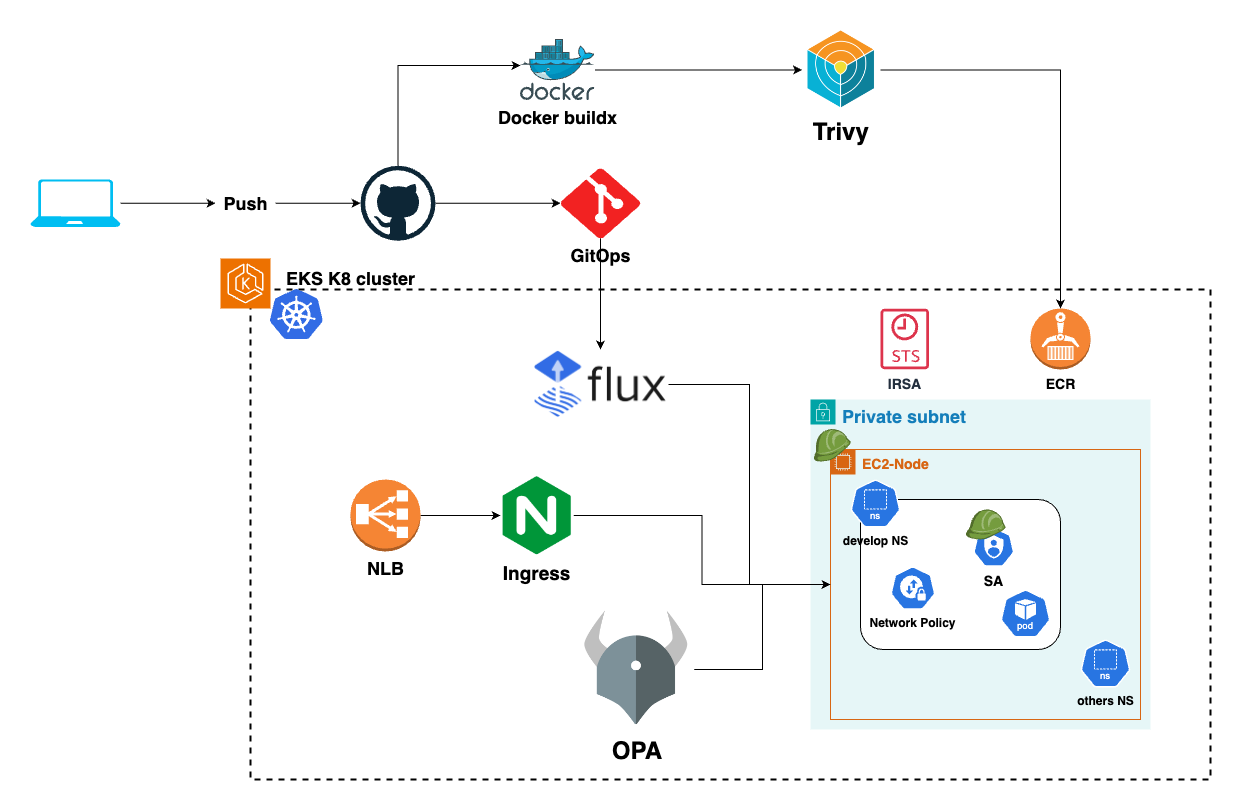
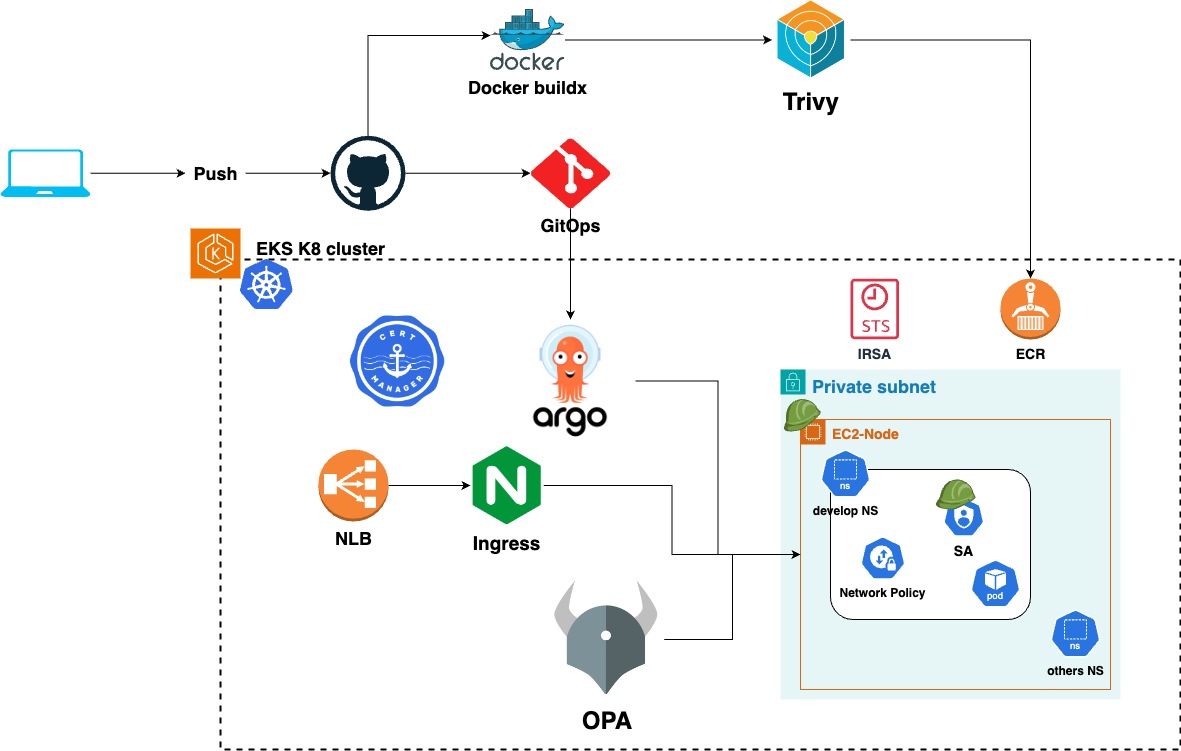
argo

diff --git a/README.md b/README.md
@@ -1,4 +1,4 @@
-# Smart-Cash Project(Under development)
+# Smart-Cash Project ArgoCD (Under development)
 
 This is a personal project to test some tools that I want to learn in a hands-on manner.
 
@@ -17,7 +17,7 @@ utils folder contains Go packages used by microservice code.
 Contains the Terraform code and K8 manifests divided by different stages:
 
 * **1-base-stage:** This stage deploys the AWS networking needed for the project(VPC,subnets,endpoints, etc) and some resources like KMS keys and IAM roles.
-* **2-eks-cluster-stage:** This stage creates the EKS cluster and deploy the first kubernetes resources like, flux CRD, namespaces, nginx-ingress. This stage defines the core resources for the project.
+* **2-eks-cluster-stage:** This stage creates the EKS cluster and deploy the first kubernetes resources like, ArgoCD components, namespaces, nginx-ingress. This stage defines the core resources for the project.
 * **3-k8-common-stage:** This stage deploys k8 and AWS resources that are used for the whole environment.
 * **4-workloads-stage:** This stage contains the infrastructure for the services to deploy, each service has its own folder where the TF code is defined based on the infrastructure requirements.
 
